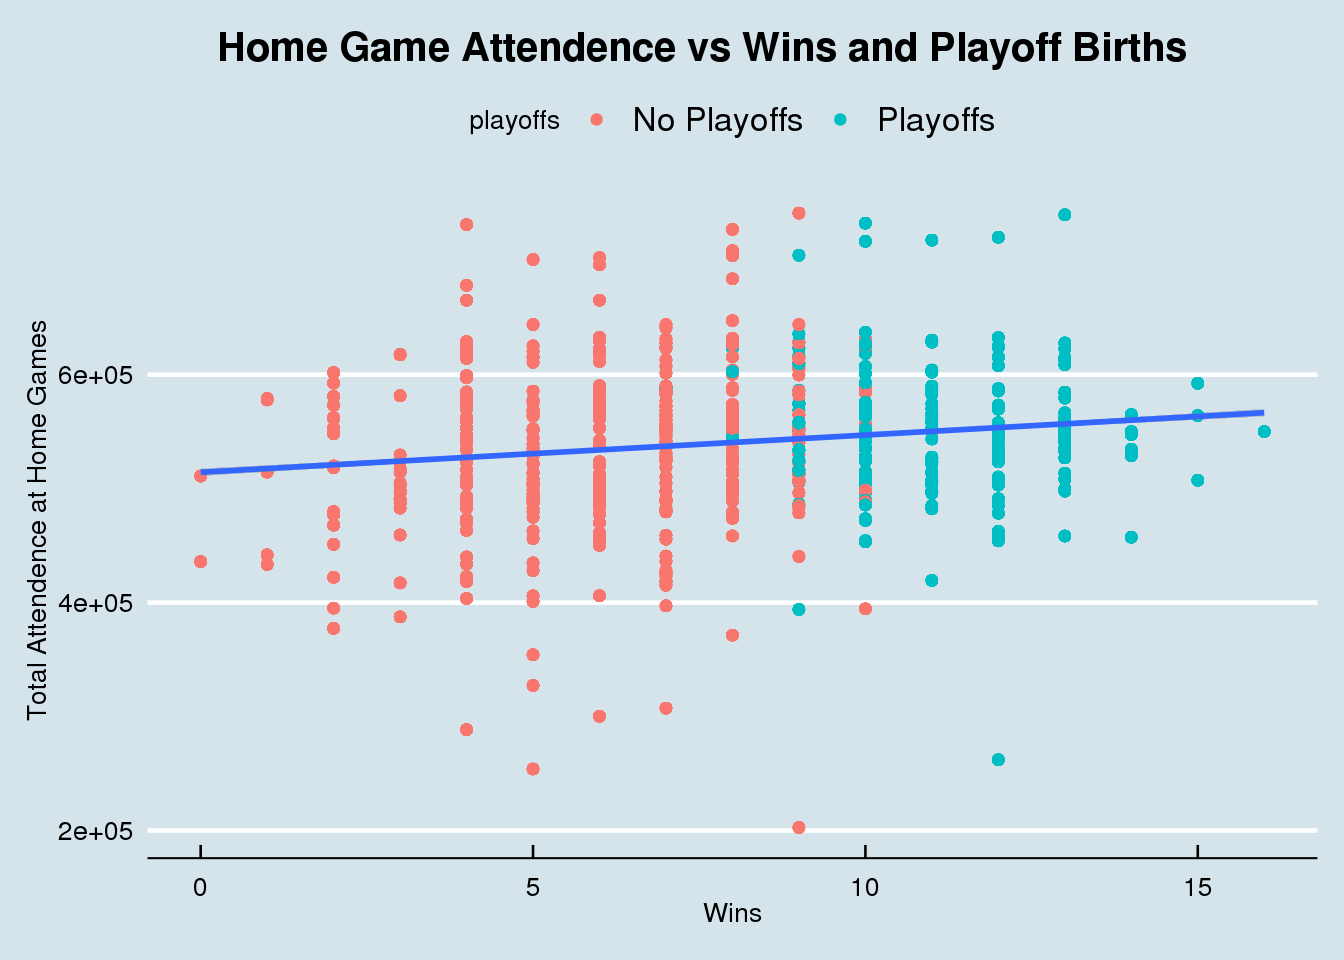
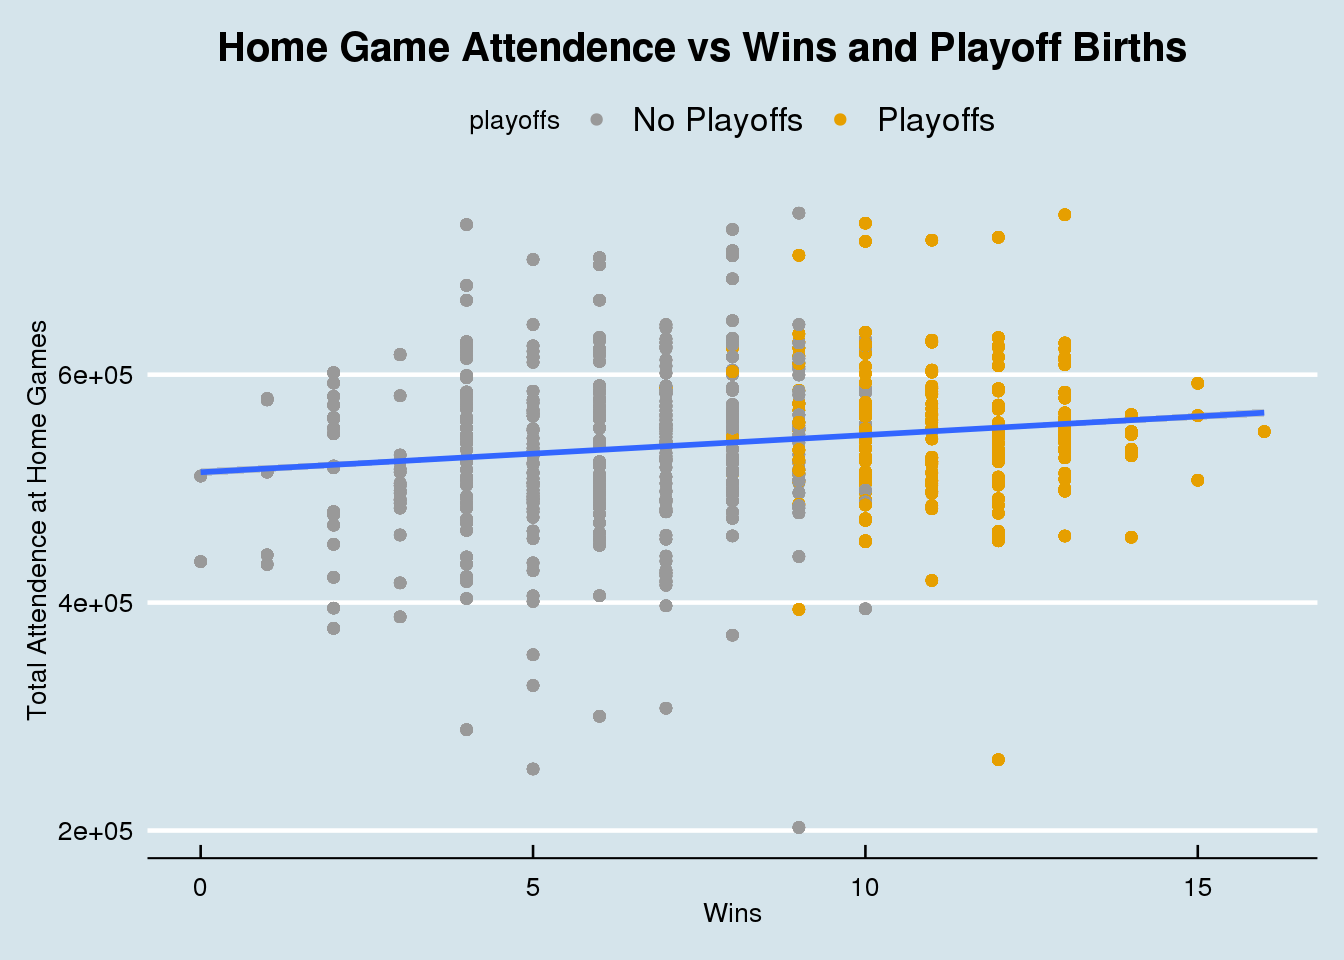
minor fixes & Europe Energy Conclusion

diff --git a/public/2020/12/03/a-first-post/index.html b/public/2020/12/03/a-first-post/index.html
@@ -113,9 +113,11 @@ made the playoffs.</p>
   geom_smooth(method = &quot;lm&quot;) +
   labs(x = &quot;Wins&quot;, y = &quot;Total Attendence at Home Games&quot;) +
   ggtitle(&quot;Home Game Attendence vs Wins and Playoff Births&quot;) +
+  scale_color_manual(values=c(&quot;#999999&quot;, &quot;#E69F00&quot;)) +
   theme_economist() +
-  theme(plot.title = element_text(hjust = 0.35))</code></pre>
+  theme(plot.title = element_text(hjust = 0.35)) </code></pre>
 <p><img src="index_files/figure-html/unnamed-chunk-2-1.png" width="672" /></p>
+<p>Next, I…</p>
 <pre class="r"><code>p1 &lt;- ggplot(dat, aes(x = playoffs, y = home)) +
   geom_boxplot() +
   labs(x = &quot;Playoff Birth&quot;, y = &quot;Total Attendence at Home Games&quot;) +
@@ -131,37 +133,46 @@ p2 &lt;- ggplot(dat, aes(x = sb_winner, y = home)) +
 patchwork &lt;- p1 + p2
 patchwork + 
   plot_annotation(title = &quot;Home Game Attendence vs Playoff Births &amp; Superbowl Winners&quot;) </code></pre>
-<p><img src="index_files/figure-html/unnamed-chunk-2-2.png" width="672" />
+<p><img src="index_files/figure-html/unnamed-chunk-3-1.png" width="672" /></p>
+<pre class="r"><code>dat %&gt;%
+  group_by(team_name) %&gt;%
+  summarize(avr_home = mean(home)) %&gt;%
+  ggplot(aes(x = reorder(team_name, -avr_home), y = avr_home)) +
+    geom_col() +
+    labs(x = &quot;Team&quot;, y = &quot;Home Attendences&quot;) +
+    ggtitle(&quot;Average Home Attendence since 2000 by NFL Team&quot;) +
+    theme_economist() +
+    theme(axis.text.x = element_text(angle = 90, hjust = 1, vjust = 0.5)) +
+    theme(plot.title = element_text(size = 14, hjust = 0.35))</code></pre>
+<p><img src="index_files/figure-html/unnamed-chunk-4-1.png" width="672" />
 There is a clear positive correlation between teams that went to the playoffs and higher attendance at home games. However, there were many teams with high attendance that missed the playoffs and teams with low attendance that did make the playoffs. Also, when looking at Superbowl Winners, there is almost no difference in attendance between teams that did win the Superbowl and those who did not. This leads me to believe that the effect that high attendance has on the success of NFL teams is very small.</p>
 </div>
 <div id="question-2" class="section level1">
 <h1>Question 2</h1>
-<p>When is the optimal time and day for a NFL game to recieve the highest attendance? To find this, I joined the attendance dataset and the games dataset to compare attendances over different times and dates.</p>
+<p>When is the optimal time and day for a NFL game to receive the highest attendance? To find this, I joined the attendance dataset and the games dataset to compare attendances over different times and dates.</p>
 <pre class="r"><code>games &lt;- games %&gt;%
   mutate(week = as.numeric(week))</code></pre>
 <pre><code>## Warning: NAs introduced by coercion</code></pre>
 <pre class="r"><code>games %&gt;%
   left_join(attendance, by = c(&quot;home_team_city&quot; = &quot;team&quot;, &quot;home_team_name&quot; = &quot;team_name&quot;, &quot;year&quot;, &quot;week&quot;)) %&gt;%
-  filter(day == c(&quot;Sun&quot;, &quot;Mon&quot;, &quot;Thu&quot;)) %&gt;%
+  filter(day %in% c(&quot;Sun&quot;, &quot;Mon&quot;, &quot;Thu&quot;)) %&gt;%
   group_by(day, time) %&gt;%
   summarize(avr_attendance = mean(weekly_attendance, na.rm = TRUE))</code></pre>
-<pre><code>## Warning in day == c(&quot;Sun&quot;, &quot;Mon&quot;, &quot;Thu&quot;): longer object length is not a multiple
-## of shorter object length</code></pre>
-<pre><code>## # A tibble: 136 x 3
+<pre><code>## # A tibble: 209 x 3
 ## # Groups:   day [3]
 ##    day   time   avr_attendance
 ##    &lt;chr&gt; &lt;time&gt;          &lt;dbl&gt;
-##  1 Mon   19:10          70571.
-##  2 Mon   19:11          78044.
-##  3 Mon   19:13          66860 
-##  4 Mon   19:20          45910 
-##  5 Mon   19:26          78127 
-##  6 Mon   20:10          65477 
-##  7 Mon   20:15          69070 
-##  8 Mon   20:30          72581.
-##  9 Mon   20:31          69957 
-## 10 Mon   20:32          69596 
-## # … with 126 more rows</code></pre>
+##  1 Mon   16:30          71842 
+##  2 Mon   17:07          62839 
+##  3 Mon   19:05          56044 
+##  4 Mon   19:07          75735 
+##  5 Mon   19:10          70130.
+##  6 Mon   19:11          78044.
+##  7 Mon   19:13          66860 
+##  8 Mon   19:20          45910 
+##  9 Mon   19:26          78127 
+## 10 Mon   19:36          68031 
+## # … with 199 more rows</code></pre>
 <p>So far this is as far as I have gotten, bc there are way more times than I thought and I am still trying to figure out a way to deal with it.</p>
 </div>
 <div id="question-3" class="section level1">
@@ -187,7 +198,7 @@ f2 &lt;- ggplot(dat, aes(x = points_for, y = home)) +
   theme(plot.title = element_text(hjust = 0.35))
 
 f1 / f2</code></pre>
-<p><img src="index_files/figure-html/unnamed-chunk-4-1.png" width="672" /></p>
+<p><img src="index_files/figure-html/unnamed-chunk-6-1.png" width="672" /></p>
 <pre class="r"><code>f3 &lt;- ggplot(dat, aes(x = defensive_ranking, y = home)) +
   geom_point() +
   geom_smooth(method = &quot;lm&quot;) +
@@ -205,7 +216,7 @@ f4 &lt;- ggplot(dat, aes(x = points_against, y = home)) +
   theme(plot.title = element_text(hjust = 0.35))
 
 f3 / f4</code></pre>
-<p><img src="index_files/figure-html/unnamed-chunk-4-2.png" width="672" /></p>
+<p><img src="index_files/figure-html/unnamed-chunk-6-2.png" width="672" /></p>
 <p>The graphs show that both a good offense and defense attract slightly larger crowds to NFL games.</p>
 </div>
 <div id="conclusions" class="section level1">

diff --git a/content/post/2020-12-03-a-first-post/index.html b/content/post/2020-12-03-a-first-post/index.html
@@ -43,9 +43,11 @@ made the playoffs.</p>
   geom_smooth(method = &quot;lm&quot;) +
   labs(x = &quot;Wins&quot;, y = &quot;Total Attendence at Home Games&quot;) +
   ggtitle(&quot;Home Game Attendence vs Wins and Playoff Births&quot;) +
+  scale_color_manual(values=c(&quot;#999999&quot;, &quot;#E69F00&quot;)) +
   theme_economist() +
-  theme(plot.title = element_text(hjust = 0.35))</code></pre>
+  theme(plot.title = element_text(hjust = 0.35)) </code></pre>
 <p><img src="index_files/figure-html/unnamed-chunk-2-1.png" width="672" /></p>
+<p>Next, I…</p>
 <pre class="r"><code>p1 &lt;- ggplot(dat, aes(x = playoffs, y = home)) +
   geom_boxplot() +
   labs(x = &quot;Playoff Birth&quot;, y = &quot;Total Attendence at Home Games&quot;) +
@@ -61,37 +63,46 @@ p2 &lt;- ggplot(dat, aes(x = sb_winner, y = home)) +
 patchwork &lt;- p1 + p2
 patchwork + 
   plot_annotation(title = &quot;Home Game Attendence vs Playoff Births &amp; Superbowl Winners&quot;) </code></pre>
-<p><img src="index_files/figure-html/unnamed-chunk-2-2.png" width="672" />
+<p><img src="index_files/figure-html/unnamed-chunk-3-1.png" width="672" /></p>
+<pre class="r"><code>dat %&gt;%
+  group_by(team_name) %&gt;%
+  summarize(avr_home = mean(home)) %&gt;%
+  ggplot(aes(x = reorder(team_name, -avr_home), y = avr_home)) +
+    geom_col() +
+    labs(x = &quot;Team&quot;, y = &quot;Home Attendences&quot;) +
+    ggtitle(&quot;Average Home Attendence since 2000 by NFL Team&quot;) +
+    theme_economist() +
+    theme(axis.text.x = element_text(angle = 90, hjust = 1, vjust = 0.5)) +
+    theme(plot.title = element_text(size = 14, hjust = 0.35))</code></pre>
+<p><img src="index_files/figure-html/unnamed-chunk-4-1.png" width="672" />
 There is a clear positive correlation between teams that went to the playoffs and higher attendance at home games. However, there were many teams with high attendance that missed the playoffs and teams with low attendance that did make the playoffs. Also, when looking at Superbowl Winners, there is almost no difference in attendance between teams that did win the Superbowl and those who did not. This leads me to believe that the effect that high attendance has on the success of NFL teams is very small.</p>
 </div>
 <div id="question-2" class="section level1">
 <h1>Question 2</h1>
-<p>When is the optimal time and day for a NFL game to recieve the highest attendance? To find this, I joined the attendance dataset and the games dataset to compare attendances over different times and dates.</p>
+<p>When is the optimal time and day for a NFL game to receive the highest attendance? To find this, I joined the attendance dataset and the games dataset to compare attendances over different times and dates.</p>
 <pre class="r"><code>games &lt;- games %&gt;%
   mutate(week = as.numeric(week))</code></pre>
 <pre><code>## Warning: NAs introduced by coercion</code></pre>
 <pre class="r"><code>games %&gt;%
   left_join(attendance, by = c(&quot;home_team_city&quot; = &quot;team&quot;, &quot;home_team_name&quot; = &quot;team_name&quot;, &quot;year&quot;, &quot;week&quot;)) %&gt;%
-  filter(day == c(&quot;Sun&quot;, &quot;Mon&quot;, &quot;Thu&quot;)) %&gt;%
+  filter(day %in% c(&quot;Sun&quot;, &quot;Mon&quot;, &quot;Thu&quot;)) %&gt;%
   group_by(day, time) %&gt;%
   summarize(avr_attendance = mean(weekly_attendance, na.rm = TRUE))</code></pre>
-<pre><code>## Warning in day == c(&quot;Sun&quot;, &quot;Mon&quot;, &quot;Thu&quot;): longer object length is not a multiple
-## of shorter object length</code></pre>
-<pre><code>## # A tibble: 136 x 3
+<pre><code>## # A tibble: 209 x 3
 ## # Groups:   day [3]
 ##    day   time   avr_attendance
 ##    &lt;chr&gt; &lt;time&gt;          &lt;dbl&gt;
-##  1 Mon   19:10          70571.
-##  2 Mon   19:11          78044.
-##  3 Mon   19:13          66860 
-##  4 Mon   19:20          45910 
-##  5 Mon   19:26          78127 
-##  6 Mon   20:10          65477 
-##  7 Mon   20:15          69070 
-##  8 Mon   20:30          72581.
-##  9 Mon   20:31          69957 
-## 10 Mon   20:32          69596 
-## # … with 126 more rows</code></pre>
+##  1 Mon   16:30          71842 
+##  2 Mon   17:07          62839 
+##  3 Mon   19:05          56044 
+##  4 Mon   19:07          75735 
+##  5 Mon   19:10          70130.
+##  6 Mon   19:11          78044.
+##  7 Mon   19:13          66860 
+##  8 Mon   19:20          45910 
+##  9 Mon   19:26          78127 
+## 10 Mon   19:36          68031 
+## # … with 199 more rows</code></pre>
 <p>So far this is as far as I have gotten, bc there are way more times than I thought and I am still trying to figure out a way to deal with it.</p>
 </div>
 <div id="question-3" class="section level1">
@@ -117,7 +128,7 @@ f2 &lt;- ggplot(dat, aes(x = points_for, y = home)) +
   theme(plot.title = element_text(hjust = 0.35))
 
 f1 / f2</code></pre>
-<p><img src="index_files/figure-html/unnamed-chunk-4-1.png" width="672" /></p>
+<p><img src="index_files/figure-html/unnamed-chunk-6-1.png" width="672" /></p>
 <pre class="r"><code>f3 &lt;- ggplot(dat, aes(x = defensive_ranking, y = home)) +
   geom_point() +
   geom_smooth(method = &quot;lm&quot;) +
@@ -135,7 +146,7 @@ f4 &lt;- ggplot(dat, aes(x = points_against, y = home)) +
   theme(plot.title = element_text(hjust = 0.35))
 
 f3 / f4</code></pre>
-<p><img src="index_files/figure-html/unnamed-chunk-4-2.png" width="672" /></p>
+<p><img src="index_files/figure-html/unnamed-chunk-6-2.png" width="672" /></p>
 <p>The graphs show that both a good offense and defense attract slightly larger crowds to NFL games.</p>
 </div>
 <div id="conclusions" class="section level1">

diff --git a/public/2020/12/08/european-energy-data-analysis/index.html b/public/2020/12/08/european-energy-data-analysis/index.html
@@ -66,7 +66,7 @@
 
   <article class="article">
     
-    <span class="article-duration">7 min read</span>
+    <span class="article-duration">8 min read</span>
     
 
     <h1 class="article-title">European Energy Data Analysis</h1>
@@ -93,12 +93,11 @@
 <pre class="r"><code>dat &lt;- energy_types %&gt;%
   left_join(country_totals, by = c(&quot;country&quot;, &quot;country_name&quot;)) %&gt;%
   rename(twenty_16.x = &#39;2016.x&#39;, twenty_17.x = &#39;2017.x&#39;, twenty_18.x = &#39;2018.x&#39;) %&gt;%
-  filter(type.x == c(&quot;Hydro&quot;, &quot;Pumped hydro power&quot;, &quot;Wind&quot;, &quot;Solar&quot;, &quot;Geothermal&quot;, &quot;Other&quot;)) %&gt;%
+  filter(type.x %in% c(&quot;Hydro&quot;, &quot;Pumped hydro power&quot;, &quot;Wind&quot;, &quot;Solar&quot;, &quot;Geothermal&quot;, &quot;Other&quot;)) %&gt;%
   group_by(country) %&gt;%
-  summarize(renew_2016 = sum(twenty_16.x), renew_2017 = sum(twenty_17.x), renew_2018 = sum(twenty_18.x)) </code></pre>
-<pre><code>## Warning in type.x == c(&quot;Hydro&quot;, &quot;Pumped hydro power&quot;, &quot;Wind&quot;, &quot;Solar&quot;,
-## &quot;Geothermal&quot;, : longer object length is not a multiple of shorter object length</code></pre>
-<pre class="r"><code>dat2 &lt;-  energy_types %&gt;%
+  summarize(renew_2016 = sum(twenty_16.x), renew_2017 = sum(twenty_17.x), renew_2018 = sum(twenty_18.x)) 
+
+dat2 &lt;-  energy_types %&gt;%
   filter(type == &quot;Conventional thermal&quot;) %&gt;%
   rename(twenty_16 = &#39;2016&#39;, twenty_17 = &#39;2017&#39;, twenty_18 = &#39;2018&#39;) %&gt;%
   group_by(country) %&gt;%
@@ -158,16 +157,16 @@ big_shift</code></pre>
 <pre><code>## # A tibble: 10 x 4
 ##    country renew_16_prc renew_18_prc  shift
 ##    &lt;chr&gt;          &lt;dbl&gt;        &lt;dbl&gt;  &lt;dbl&gt;
-##  1 BA            0.339         0.466 0.127 
-##  2 LT            0.662         0.783 0.121 
-##  3 DE            0.241         0.321 0.0799
-##  4 IE            0.247         0.323 0.0755
-##  5 UK            0.180         0.250 0.0699
-##  6 AT            0.733         0.793 0.0597
-##  7 BE            0.137         0.187 0.0495
-##  8 DK            0.466         0.514 0.0479
-##  9 NL            0.0902        0.131 0.0412
-## 10 HR            0.660         0.700 0.0393</code></pre>
+##  1 UK             0.523        0.625 0.102 
+##  2 NL             0.331        0.431 0.0993
+##  3 BA             0.720        0.814 0.0939
+##  4 BE             0.443        0.534 0.0916
+##  5 DE             0.614        0.703 0.0891
+##  6 IE             0.621        0.704 0.0829
+##  7 LT             0.907        0.947 0.0402
+##  8 EL             0.673        0.704 0.0306
+##  9 FR             0.530        0.560 0.0293
+## 10 DK             0.813        0.841 0.0274</code></pre>
 <p>Next, I shortened the data to have just the 10 European countries with the largest shifts. I then used this data to make a bar graph with these 10 counties and their percentage shift towards renewable energy, so that the results could be better visualized.</p>
 <pre class="r"><code>ggplot(big_shift, aes(x = reorder(country, -shift), y = shift)) +
   geom_col() +
@@ -178,8 +177,10 @@ big_shift</code></pre>
   theme_economist() +
   theme(plot.title = element_text(size = 14, hjust = 0.35))</code></pre>
 <p><img src="index_files/figure-html/unnamed-chunk-4-1.png" width="672" />
-Bosnia &amp; Herzegovina was the country that saw the biggest shift, but they were followed closely by Lithuania. They were the only 2 countries that had over a 10% shift in production of renewable sources of energy.
-# Question 3</p>
+Bosnia &amp; Herzegovina was the country that saw the biggest shift, but they were followed closely by Lithuania. They were the only 2 countries that had over a 10% shift in production of renewable sources of energy.</p>
+</div>
+<div id="question-3" class="section level1">
+<h1>Question 3</h1>
 <p>Is there a correlation between the European countries with the biggest energy outputs and using more conventional thermal energy? To find this, I again joined the 3 data frames that I already made to summarize the total renewable energy, nuclear energy, and conventional thermal energy that each European Country produced. Next, I arranged the data so that the countries with the highest total energy production were at the top of the data and I made a second dataset that shortened the data down to just the 10 European countries with the highest total energy production in 2018.</p>
 <pre class="r"><code>sort_total &lt;- country_totals  %&gt;%
   left_join(dat, by = &quot;country&quot;) %&gt;%
@@ -215,7 +216,7 @@ top_output &lt;- sort_total[1:10, ]</code></pre>
 </div>
 <div id="conclusions" class="section level1">
 <h1>Conclusions:</h1>
-<p>TBD</p>
+<p>In conclusion, the average European country gets about half of their energy production from clean sources. However, the range stretches from Albania that gets 100% of their energy from clean sources to Malta that gets 0% of their energy from clean sources. Furthermore, overall there has been a trend among European Countries towards Renewable sources of energy from 2016-2018, with some countries, such as Bosnia &amp; Herzegovina and Lithuania, seeing over a 10% shift towards Renewable energy sources in that span. Lastly, among the larger energy producing countries in Europe there was a trend showing higher Conventional Thermal Energy usage in these countries, with a few notable exceptions, such as France, Sweden, and Norway.</p>
 </div>
 
     </div>

diff --git a/content/post/2020-12-08-european-energy-data-analysis/index.html b/content/post/2020-12-08-european-energy-data-analysis/index.html
@@ -23,12 +23,11 @@ tags: []
 <pre class="r"><code>dat &lt;- energy_types %&gt;%
   left_join(country_totals, by = c(&quot;country&quot;, &quot;country_name&quot;)) %&gt;%
   rename(twenty_16.x = &#39;2016.x&#39;, twenty_17.x = &#39;2017.x&#39;, twenty_18.x = &#39;2018.x&#39;) %&gt;%
-  filter(type.x == c(&quot;Hydro&quot;, &quot;Pumped hydro power&quot;, &quot;Wind&quot;, &quot;Solar&quot;, &quot;Geothermal&quot;, &quot;Other&quot;)) %&gt;%
+  filter(type.x %in% c(&quot;Hydro&quot;, &quot;Pumped hydro power&quot;, &quot;Wind&quot;, &quot;Solar&quot;, &quot;Geothermal&quot;, &quot;Other&quot;)) %&gt;%
   group_by(country) %&gt;%
-  summarize(renew_2016 = sum(twenty_16.x), renew_2017 = sum(twenty_17.x), renew_2018 = sum(twenty_18.x)) </code></pre>
-<pre><code>## Warning in type.x == c(&quot;Hydro&quot;, &quot;Pumped hydro power&quot;, &quot;Wind&quot;, &quot;Solar&quot;,
-## &quot;Geothermal&quot;, : longer object length is not a multiple of shorter object length</code></pre>
-<pre class="r"><code>dat2 &lt;-  energy_types %&gt;%
+  summarize(renew_2016 = sum(twenty_16.x), renew_2017 = sum(twenty_17.x), renew_2018 = sum(twenty_18.x)) 
+
+dat2 &lt;-  energy_types %&gt;%
   filter(type == &quot;Conventional thermal&quot;) %&gt;%
   rename(twenty_16 = &#39;2016&#39;, twenty_17 = &#39;2017&#39;, twenty_18 = &#39;2018&#39;) %&gt;%
   group_by(country) %&gt;%
@@ -88,16 +87,16 @@ big_shift</code></pre>
 <pre><code>## # A tibble: 10 x 4
 ##    country renew_16_prc renew_18_prc  shift
 ##    &lt;chr&gt;          &lt;dbl&gt;        &lt;dbl&gt;  &lt;dbl&gt;
-##  1 BA            0.339         0.466 0.127 
-##  2 LT            0.662         0.783 0.121 
-##  3 DE            0.241         0.321 0.0799
-##  4 IE            0.247         0.323 0.0755
-##  5 UK            0.180         0.250 0.0699
-##  6 AT            0.733         0.793 0.0597
-##  7 BE            0.137         0.187 0.0495
-##  8 DK            0.466         0.514 0.0479
-##  9 NL            0.0902        0.131 0.0412
-## 10 HR            0.660         0.700 0.0393</code></pre>
+##  1 UK             0.523        0.625 0.102 
+##  2 NL             0.331        0.431 0.0993
+##  3 BA             0.720        0.814 0.0939
+##  4 BE             0.443        0.534 0.0916
+##  5 DE             0.614        0.703 0.0891
+##  6 IE             0.621        0.704 0.0829
+##  7 LT             0.907        0.947 0.0402
+##  8 EL             0.673        0.704 0.0306
+##  9 FR             0.530        0.560 0.0293
+## 10 DK             0.813        0.841 0.0274</code></pre>
 <p>Next, I shortened the data to have just the 10 European countries with the largest shifts. I then used this data to make a bar graph with these 10 counties and their percentage shift towards renewable energy, so that the results could be better visualized.</p>
 <pre class="r"><code>ggplot(big_shift, aes(x = reorder(country, -shift), y = shift)) +
   geom_col() +
@@ -108,8 +107,10 @@ big_shift</code></pre>
   theme_economist() +
   theme(plot.title = element_text(size = 14, hjust = 0.35))</code></pre>
 <p><img src="index_files/figure-html/unnamed-chunk-4-1.png" width="672" />
-Bosnia &amp; Herzegovina was the country that saw the biggest shift, but they were followed closely by Lithuania. They were the only 2 countries that had over a 10% shift in production of renewable sources of energy.
-# Question 3</p>
+Bosnia &amp; Herzegovina was the country that saw the biggest shift, but they were followed closely by Lithuania. They were the only 2 countries that had over a 10% shift in production of renewable sources of energy.</p>
+</div>
+<div id="question-3" class="section level1">
+<h1>Question 3</h1>
 <p>Is there a correlation between the European countries with the biggest energy outputs and using more conventional thermal energy? To find this, I again joined the 3 data frames that I already made to summarize the total renewable energy, nuclear energy, and conventional thermal energy that each European Country produced. Next, I arranged the data so that the countries with the highest total energy production were at the top of the data and I made a second dataset that shortened the data down to just the 10 European countries with the highest total energy production in 2018.</p>
 <pre class="r"><code>sort_total &lt;- country_totals  %&gt;%
   left_join(dat, by = &quot;country&quot;) %&gt;%
@@ -145,5 +146,5 @@ top_output &lt;- sort_total[1:10, ]</code></pre>
 </div>
 <div id="conclusions" class="section level1">
 <h1>Conclusions:</h1>
-<p>TBD</p>
+<p>In conclusion, the average European country gets about half of their energy production from clean sources. However, the range stretches from Albania that gets 100% of their energy from clean sources to Malta that gets 0% of their energy from clean sources. Furthermore, overall there has been a trend among European Countries towards Renewable sources of energy from 2016-2018, with some countries, such as Bosnia &amp; Herzegovina and Lithuania, seeing over a 10% shift towards Renewable energy sources in that span. Lastly, among the larger energy producing countries in Europe there was a trend showing higher Conventional Thermal Energy usage in these countries, with a few notable exceptions, such as France, Sweden, and Norway.</p>
 </div>
